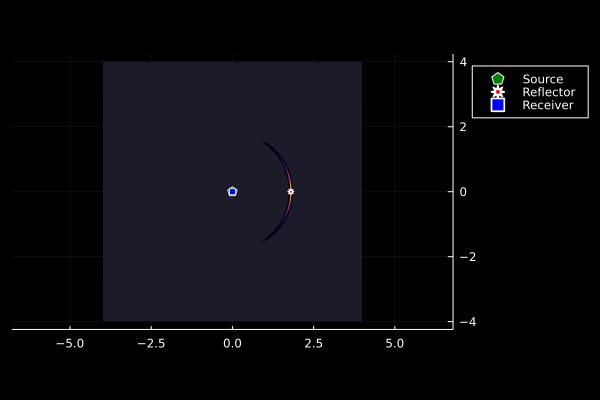
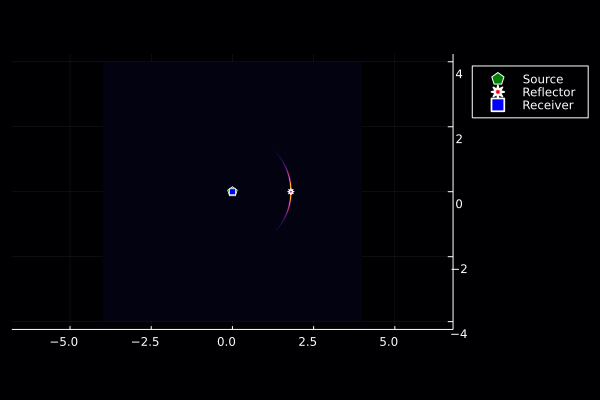
edited directional scenarios inverse model

diff --git a/docs/src/directionalLTI/dirLTIsource.md b/docs/src/directionalLTI/dirLTIsource.md
@@ -115,8 +115,8 @@ plot( t, z(t), xlab="time (sec)", ylab="z(t)", legend=:false)
 Given the scenario A assumptions, we obtained the received signal, $z(t)$. Now we can estimate the reflector function by considering the transmitted signal $p(t)=δ(t)$ as follows
 
 $\hat{f}(\bm{\xi}) = \dfrac{z\left(\frac{2\|\bm{\xi}-\mathbf{p}_\mathrm{r}\|}{\mathrm{c}}\right)}
-{\mathrm{A}^2\big(\frac{\|\bm{\xi}-\mathbf{p}_\mathrm{r}\|}{\mathrm{c}}\big)}
-\mathrm{D}^2_\mathrm{r}\left(\bm{\xi};\,{\mathbf{p}_\mathrm{r},\mathbf{b}_\mathrm{r}}\right).$
+{\mathrm{A}^2\big(\frac{\|\bm{\xi}-\mathbf{p}_\mathrm{r}\|}{\mathrm{c}}\big) \mathrm{D}^2_\mathrm{r}\left(\bm{\xi};\,{\mathbf{p}_\mathrm{r},\mathbf{b}_\mathrm{r}}\right)}
+.$
 
 ```julia
 using LTVsystems
@@ -130,9 +130,8 @@ q = LTIsourceDTI(𝐩ₛ,p,𝐛,G)
 α₀ = 0.7; 𝛏₀ = [1.8,0.0]
 r = pointReflector(𝛏₀,α₀,q)
 z = LTIreceiverDTI([r],𝐩ᵣ,𝐛,G)
-D(ξ::Vector{Float64}) = G(angleBetween(𝐛, ξ.-𝐩ᵣ))
-f(ξ::Vector{Float64}) = z(2(norm(ξ-𝐩ₛ))/c).*(D(ξ::Vector{Float64}))^2/
-                        (A(norm(ξ-𝐩ₛ)/c))^2
+f(ξ::Vector{Float64}) = z(2(norm(ξ-𝐩ₛ))/c)/
+                        (A(norm(ξ-𝐩ₛ)/c))^2 .*(D(ξ::Vector{Float64}))^2
 inverse2Dplot([q],[r],[z],f)                        
 ```
 ![](https://raw.githubusercontent.com/NMSU-ISA/LTVsystems/main/docs/src/assets/scenarioA_DirTIsimulation.png)
@@ -204,9 +203,9 @@ Given the scenario B assumptions, we obtained the received signal, $z(t)$. Now w
 $\hat{f}(\bm{\xi}) = \dfrac{z\left(\frac{\|\mathbf{p}_\mathrm{r}-
 \bm{\xi}\|+\|\bm{\xi}-\mathbf{p}_\mathrm{s}\|}
 {\mathrm{c}}  \right)}{\mathrm{A}\big(\frac{\|\bm{\xi}-\mathbf{p}_\mathrm{s}\|}{\mathrm{c}}\big)    
-\mathrm{A}\big(\frac{\|\mathbf{p}_\mathrm{r}-\bm{\xi}\|}{\mathrm{c}}\big)}
-\mathrm{D}_\mathrm{s}\left(\bm{\xi};\,{\mathbf{p}_\mathrm{s},\mathbf{b}_\mathrm{s}}\right)
-\mathrm{D}_\mathrm{r}\left(\bm{\xi};\,{\mathbf{p}_\mathrm{r},\mathbf{b}_\mathrm{r}}\right).$
+\mathrm{A}\big(\frac{\|\mathbf{p}_\mathrm{r}-\bm{\xi}\|}{\mathrm{c}}\big) \mathrm{D}_\mathrm{s}\left(\bm{\xi};\,{\mathbf{p}_\mathrm{s},\mathbf{b}_\mathrm{s}}\right)
+\mathrm{D}_\mathrm{r}\left(\bm{\xi};\,{\mathbf{p}_\mathrm{r},\mathbf{b}_\mathrm{r}}\right)}
+.$
 
 ```julia
 using LTVsystems
@@ -222,8 +221,9 @@ r = pointReflector(𝛏₀,α₀,q)
 z = LTIreceiverDTI([r],𝐩ᵣ,𝐛,G)t = 0.0:1.0e-10:15.5e-9
 Dᵣ(ξ::Vector{Float64}) = G(angleBetween(𝐛, ξ.-𝐩ᵣ))
 Dₛ(ξ::Vector{Float64}) = G(angleBetween(𝐛, ξ.-𝐩ₛ))
-f(ξ::Vector{Float64}) = z((norm(ξ-𝐩ₛ) .+ norm(𝐩ᵣ-ξ))./c).*Dₛ(ξ::Vector{Float64}).*Dᵣ(ξ::Vector{Float64})/
+f(ξ::Vector{Float64}) = z((norm(ξ-𝐩ₛ) .+ norm(𝐩ᵣ-ξ))./c)/
                         A(norm(ξ-𝐩ₛ)/c).*A(norm(𝐩ᵣ-ξ)/c)
+                        .*Dₛ(ξ::Vector{Float64}).*Dᵣ(ξ::Vector{Float64})
 inverse2Dplot([q],[r],[z],f)
 ```
 ![](https://raw.githubusercontent.com/NMSU-ISA/LTVsystems/main/docs/src/assets/scenarioB_DirTIsimulation.png)
@@ -293,9 +293,10 @@ Given the scenario C assumptions, we obtained the received signal, $z(t)$. Now w
 $\hat{f}(\bm{\xi}) = \dfrac{z\left(\frac{\|\mathbf{p}_\mathrm{r}-
 \bm{\xi}\|+\|\bm{\xi}-\mathbf{p}_\mathrm{s}\|}
 {\mathrm{c}}  \right)}{\mathrm{A}\big(\frac{\|\bm{\xi}-\mathbf{p}_\mathrm{s}\|}{\mathrm{c}}\big)    
-\mathrm{A}\big(\frac{\|\mathbf{p}_\mathrm{r}-\bm{\xi}\|}{\mathrm{c}}\big)}
+\mathrm{A}\big(\frac{\|\mathbf{p}_\mathrm{r}-\bm{\xi}\|}{\mathrm{c}}\big)
 \mathrm{D}_\mathrm{s}\left(\bm{\xi};\,{\mathbf{p}_\mathrm{s},\mathbf{b}_\mathrm{s}}\right)
-\mathrm{D}_\mathrm{r}\left(\bm{\xi};\,{\mathbf{p}_\mathrm{r},\mathbf{b}_\mathrm{r}}\right).$
+\mathrm{D}_\mathrm{r}\left(\bm{\xi};\,{\mathbf{p}_\mathrm{r},\mathbf{b}_\mathrm{r}}\right)}
+.$
 
 ```julia
 using LTVsystems
@@ -313,8 +314,9 @@ r = pointReflector([𝛏₁,𝛏₂,𝛏₃],[α₁,α₂,α₃],[q])
 z = LTIreceiverDTI(r,𝐩ᵣ,𝐛,G)
 Dᵣ(ξ::Vector{Float64}) = G(angleBetween(𝐛, ξ.-𝐩ᵣ))
 Dₛ(ξ::Vector{Float64}) = G(angleBetween(𝐛, ξ.-𝐩ₛ))
-f(ξ::Vector{Float64}) = z((norm(ξ-𝐩ₛ) .+ norm(𝐩ᵣ-ξ))./c).*Dₛ(ξ::Vector{Float64}).*Dᵣ(ξ::Vector{Float64})/
+f(ξ::Vector{Float64}) = z((norm(ξ-𝐩ₛ) .+ norm(𝐩ᵣ-ξ))./c)/
                         A(norm(ξ-𝐩ₛ)/c).*A(norm(𝐩ᵣ-ξ)/c)
+                        .*Dₛ(ξ::Vector{Float64}).*Dᵣ(ξ::Vector{Float64})
 inverse2Dplot([q],r,[z],f)
 ```
 ![](https://raw.githubusercontent.com/NMSU-ISA/LTVsystems/main/docs/src/assets/scenarioC_DirTIsimulation.png)
